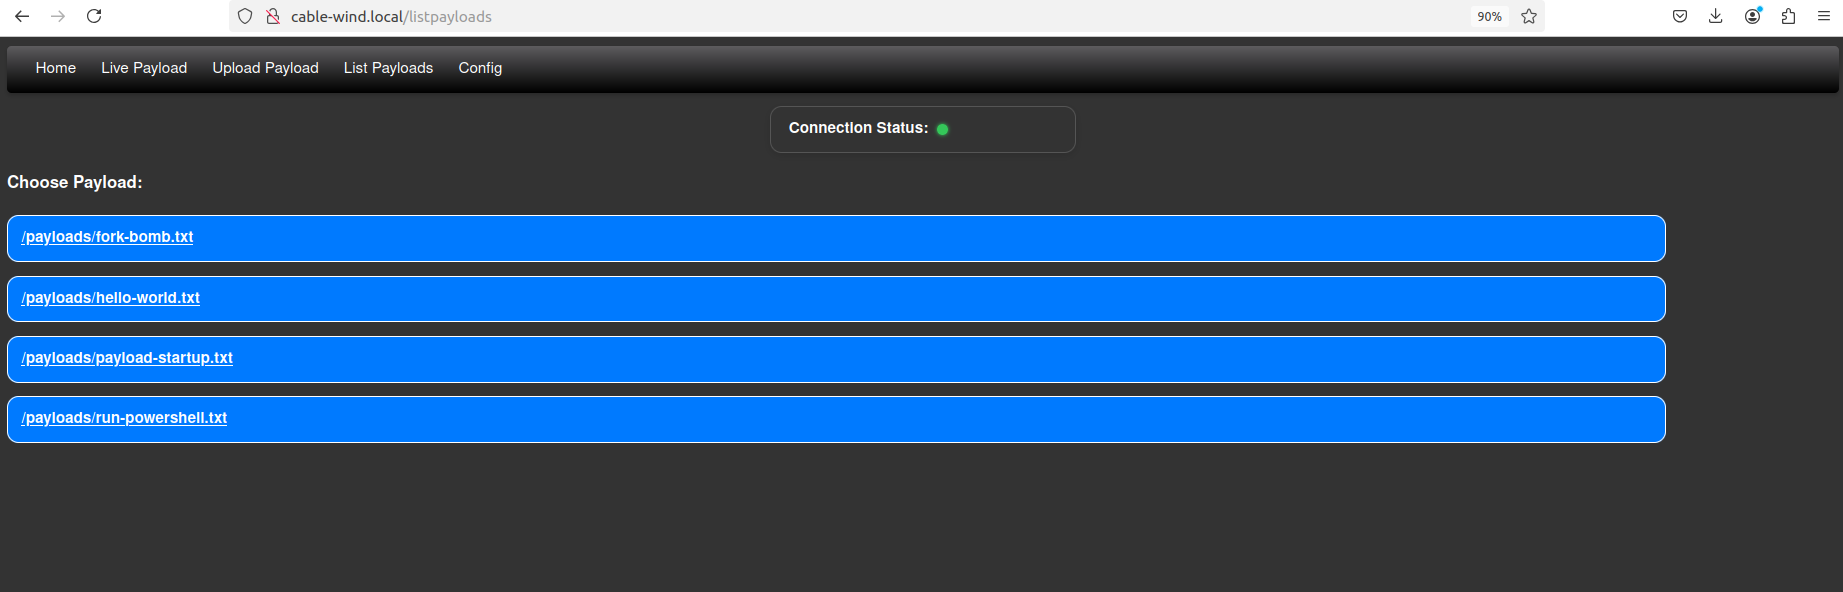
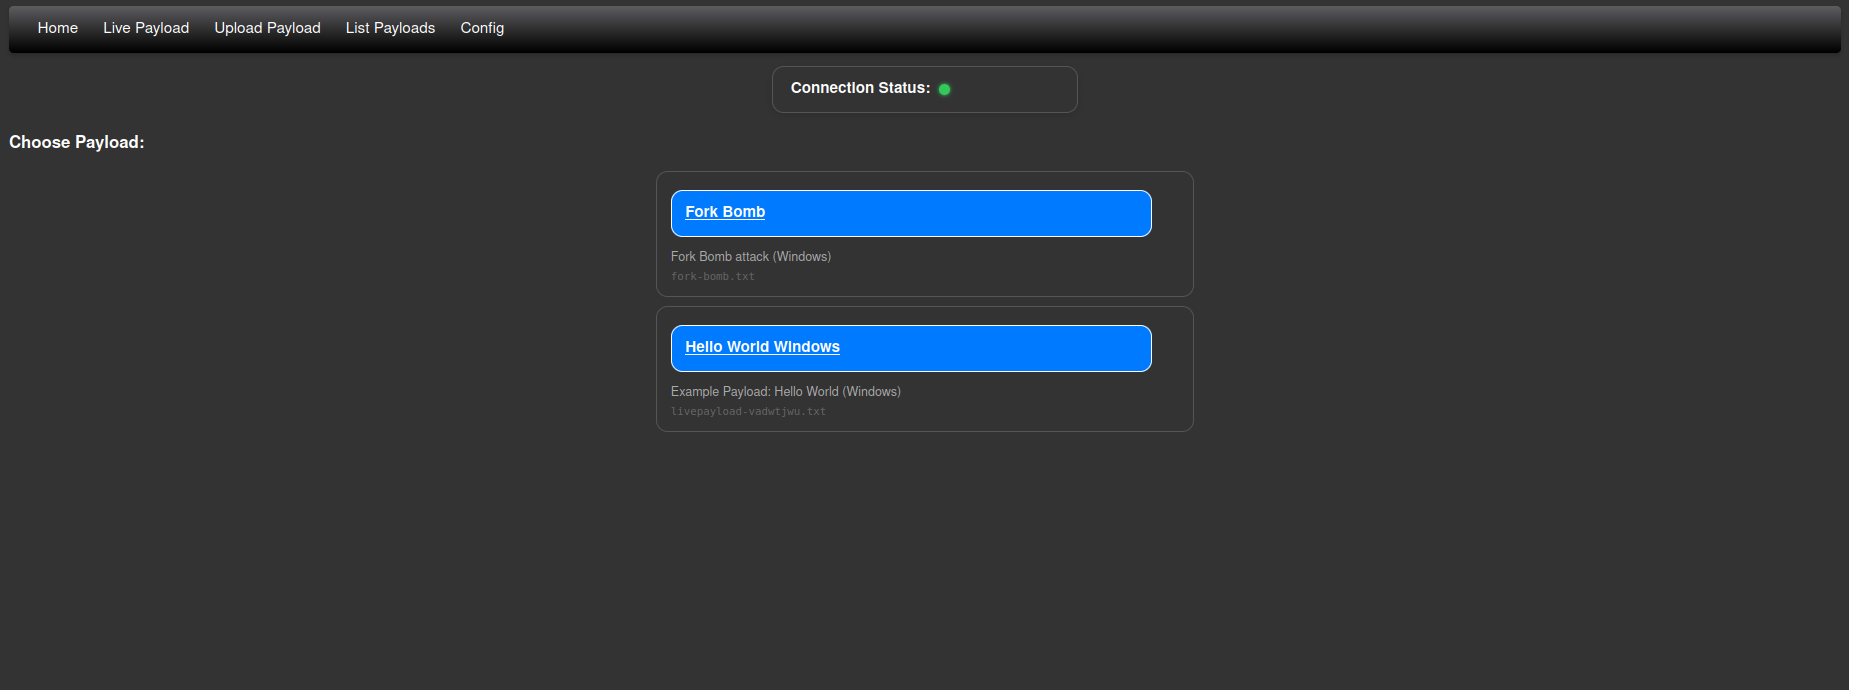
Add name and description to saved and uploaded payloads

diff --git a/README.md b/README.md
@@ -200,9 +200,11 @@ The Live Payload page allows you to run payloads or save payloads:
 
 * You can use the "Run Payload" option to run the payload.
 * You can use the "Startup exec payload" option to save the payload in memory and run it every time Evil Crow Cable Wind is connected to a computer.
-* You can use the "Save Payload" option to save the payload in memory.
+* You can use the "Save Payload" option to save the payload in memory. Optionally, you can add a descriptive name and a brief explanation of what the payload does.
 
 ![LivePayload](https://github.com/joelsernamoreno/EvilCrowCable-Wind/blob/main/images/livepayload.png)
+
+![LivePayload](https://github.com/joelsernamoreno/EvilCrowCable-Wind/blob/main/images/livepayload2.png)
 
 **Run Payload example:**
 
